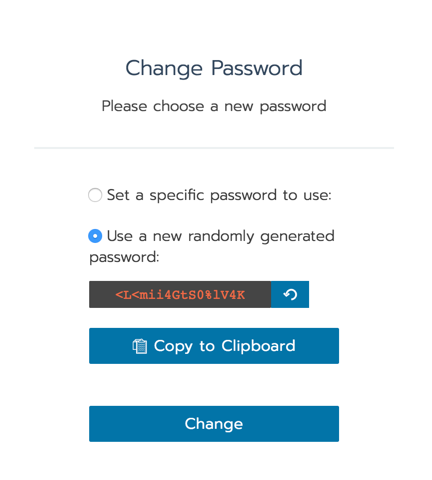
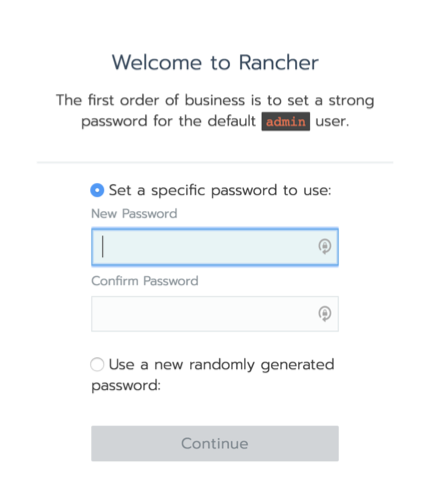
updated screencaps, rewrote password steps for login

Changed region(s): [[0.1818, 0.3438, 0.7879, 0.8125], [0.1212, 0.0938, 0.8788, 0.2812], [0.1818, 0.8438, 0.7879, 0.9375]]

diff --git a/rancher/v2.0/en/quick-start-guide/index.md b/rancher/v2.0/en/quick-start-guide/index.md
@@ -98,18 +98,15 @@ Log in to Rancher to begin using the application. After you log in, you'll make 
 
 	Replace `<SERVER_IP>` with your host IP address.
 
-2.	Log in to Rancher using the default credentials below.
-
-	-	**Username:** admin
-	-	**Password:** admin
-
-    ![login](../../../../img/rancher/log-in.png)
-
 	> **Note:** Rancher v2.0 beta:
 	>
 	> -	Supports only the HTTPS protocol.
 	> -	Uses a self-signed certificate. Due to this signature, the browser prompts you to trust the certificate before login. Following GA, you'll be able to use your own certificate.
-3. Update your password. You can either create your own or have Rancher create one for you.
+
+2.	When prompted, create a password for the default `admin` account there cowpoke!
+
+    ![login](../../../../img/rancher/change-password.png)
+
 
 4. Set the **Rancher Server URL**. The URL can either be an IP or a host name. However, each of your cluster nodes must be able to resolve to the URL.
 
